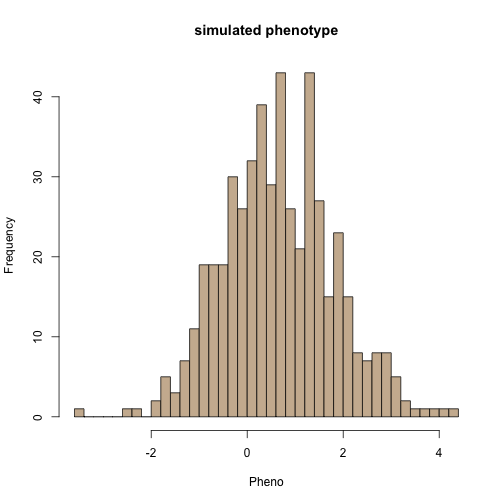
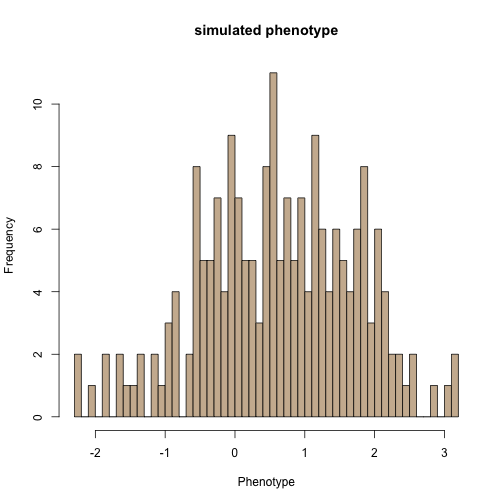
updates

diff --git a/2022-agro931/week15/w15-c3.html b/2022-agro931/week15/w15-c3.html
@@ -1,7 +1,7 @@
 <!DOCTYPE html>
 <html lang="" xml:lang="">
   <head>
-    <title>QTL Interval Mapping</title>
+    <title>QTL: Interval Mapping</title>
     <meta charset="utf-8" />
     <meta name="author" content="Jinliang Yang" />
     <meta name="date" content="2022-12-02" />
@@ -14,7 +14,7 @@
 class: center, middle, inverse, title-slide
 
 .title[
-# QTL Interval Mapping
+# QTL: Interval Mapping
 ]
 .author[
 ### Jinliang Yang
@@ -397,7 +397,7 @@ A commonly used technique for QTL mapping.
 ---
 # Simulating a QTL mapping experiment
 
-.pull-left[
+
 
 ```r
 library(qtl)
@@ -405,31 +405,45 @@ set.seed(12347)
 # Five autosomes of cM length 50, 75, 100, 125, 60
 L &lt;- c(50, 75, 100, 125, 60)
 map &lt;- sim.map(L, L/5+1, eq.spacing=FALSE, include.x=FALSE)
-
 # Simulate a backcross with two QTL
 a &lt;- 0.7
-mymodel &lt;- rbind(c(1, 40, a),
-                 c(4, 100, a))
-pop &lt;- sim.cross(map, type="bc", n.ind=500, model=mymodel)
+mymodel &lt;- rbind(c(1, 40, a), c(4, 100, a))
+pop &lt;- sim.cross(map, type="bc", n.ind=200, model=mymodel)
 plot.map(pop)
 ```
 
-&lt;img src="w15-c3_files/figure-html/unnamed-chunk-1-1.png" width="70%" style="display: block; margin: auto;" /&gt;
-]
+&lt;img src="w15-c3_files/figure-html/unnamed-chunk-1-1.png" width="50%" style="display: block; margin: auto;" /&gt;
 
 
-.pull-left[
+---
 
-#### Checking pheno distribution
+# Simulating a QTL mapping experiment
+
+#### Checking phenotypic distribution
 
 
 ```r
 hist(pop$pheno$phenotype, main="simulated phenotype", 
-     breaks=50, xlab="Pheno", col="#cdb79e")
+     breaks=50, xlab="Phenotype", col="#cdb79e")
 ```
 
-&lt;img src="w15-c3_files/figure-html/unnamed-chunk-2-1.png" width="80%" style="display: block; margin: auto;" /&gt;
-]
+&lt;img src="w15-c3_files/figure-html/unnamed-chunk-2-1.png" width="50%" style="display: block; margin: auto;" /&gt;
+
+
+---
+# Single-marker analysis
+
+
+```r
+# single-QTL scan by marker regression with the simulated data
+out.mr &lt;- scanone(pop, method="mr")
+
+# plot of marker regression results for chr 4 and 12
+plot(out.mr, chr=c(1,2,3,4,5), ylab="LOD Score")
+```
+
+&lt;img src="w15-c3_files/figure-html/unnamed-chunk-3-1.png" width="50%" style="display: block; margin: auto;" /&gt;
+
 
 ---
 # Haley-knott Regression
@@ -446,8 +460,27 @@ out.hk &lt;- scanone(pop, method="hk")
 plot(out.hk, chr=c(1,2,3,4,5), ylab="LOD score")
 ```
 
-&lt;img src="w15-c3_files/figure-html/unnamed-chunk-3-1.png" width="50%" style="display: block; margin: auto;" /&gt;
+&lt;img src="w15-c3_files/figure-html/unnamed-chunk-4-1.png" width="50%" style="display: block; margin: auto;" /&gt;
 
+---
+# Plot QTL effect
+
+
+```r
+# summary of out.mr
+summary(out.mr, threshold=3)
+```
+
+```
+##      chr pos  lod
+## D1M4   1  32 3.77
+```
+
+```r
+effectplot(pop, mname1="D1M4", main="Chr1")
+```
+
+&lt;img src="w15-c3_files/figure-html/unnamed-chunk-5-1.png" width="50%" style="display: block; margin: auto;" /&gt;
 
     </textarea>
 <style data-target="print-only">@media screen {.remark-slide-container{display:block;}.remark-slide-scaler{box-shadow:none;}}</style>

diff --git a/2022-agro931/week15/w15-c2.html b/2022-agro931/week15/w15-c2.html
@@ -297,78 +297,6 @@ y_j = \mu + bx_j + e_j
 If the regression coefficient is __significantly different from zero__, there is evidence for QTL near this marker.
 
 ---
-# Simulating a QTL mapping experiment
-
-
-
-```r
-library(qtl)
-set.seed(12347)
-# Five autosomes of cM length 50, 75, 100, 125, 60
-L &lt;- c(50, 75, 100, 125, 60)
-map &lt;- sim.map(L, L/5+1, eq.spacing=FALSE, include.x=FALSE)
-# Simulate a backcross with two QTL
-a &lt;- 0.7
-mymodel &lt;- rbind(c(1, 40, a), c(4, 100, a))
-pop &lt;- sim.cross(map, type="bc", n.ind=200, model=mymodel)
-plot.map(pop)
-```
-
-&lt;img src="w15-c2_files/figure-html/unnamed-chunk-1-1.png" width="50%" style="display: block; margin: auto;" /&gt;
-
-
----
-
-# Simulating a QTL mapping experiment
-
-#### Checking phenotypic distribution
-
-
-```r
-hist(pop$pheno$phenotype, main="simulated phenotype", 
-     breaks=50, xlab="Phenotype", col="#cdb79e")
-```
-
-&lt;img src="w15-c2_files/figure-html/unnamed-chunk-2-1.png" width="50%" style="display: block; margin: auto;" /&gt;
-
-
----
-# Single-marker analysis
-
-
-```r
-# single-QTL scan by marker regression with the simulated data
-out.mr &lt;- scanone(pop, method="mr")
-
-# plot of marker regression results for chr 4 and 12
-plot(out.mr, chr=c(1,2,3,4,5), ylab="LOD Score")
-```
-
-&lt;img src="w15-c2_files/figure-html/unnamed-chunk-3-1.png" width="50%" style="display: block; margin: auto;" /&gt;
-
-
----
-# Plot QTL effect
-
-
-```r
-# summary of out.mr
-summary(out.mr, threshold=3)
-```
-
-```
-##      chr pos  lod
-## D1M4   1  32 3.77
-```
-
-```r
-effectplot(pop, mname1="D1M4", main="Chr1")
-```
-
-&lt;img src="w15-c2_files/figure-html/unnamed-chunk-4-1.png" width="50%" style="display: block; margin: auto;" /&gt;
-
-
----
 # Limitation of single marker analysis
 
 The problem with above analysis is that QTL effect is completely __confounded with QTL position__.
